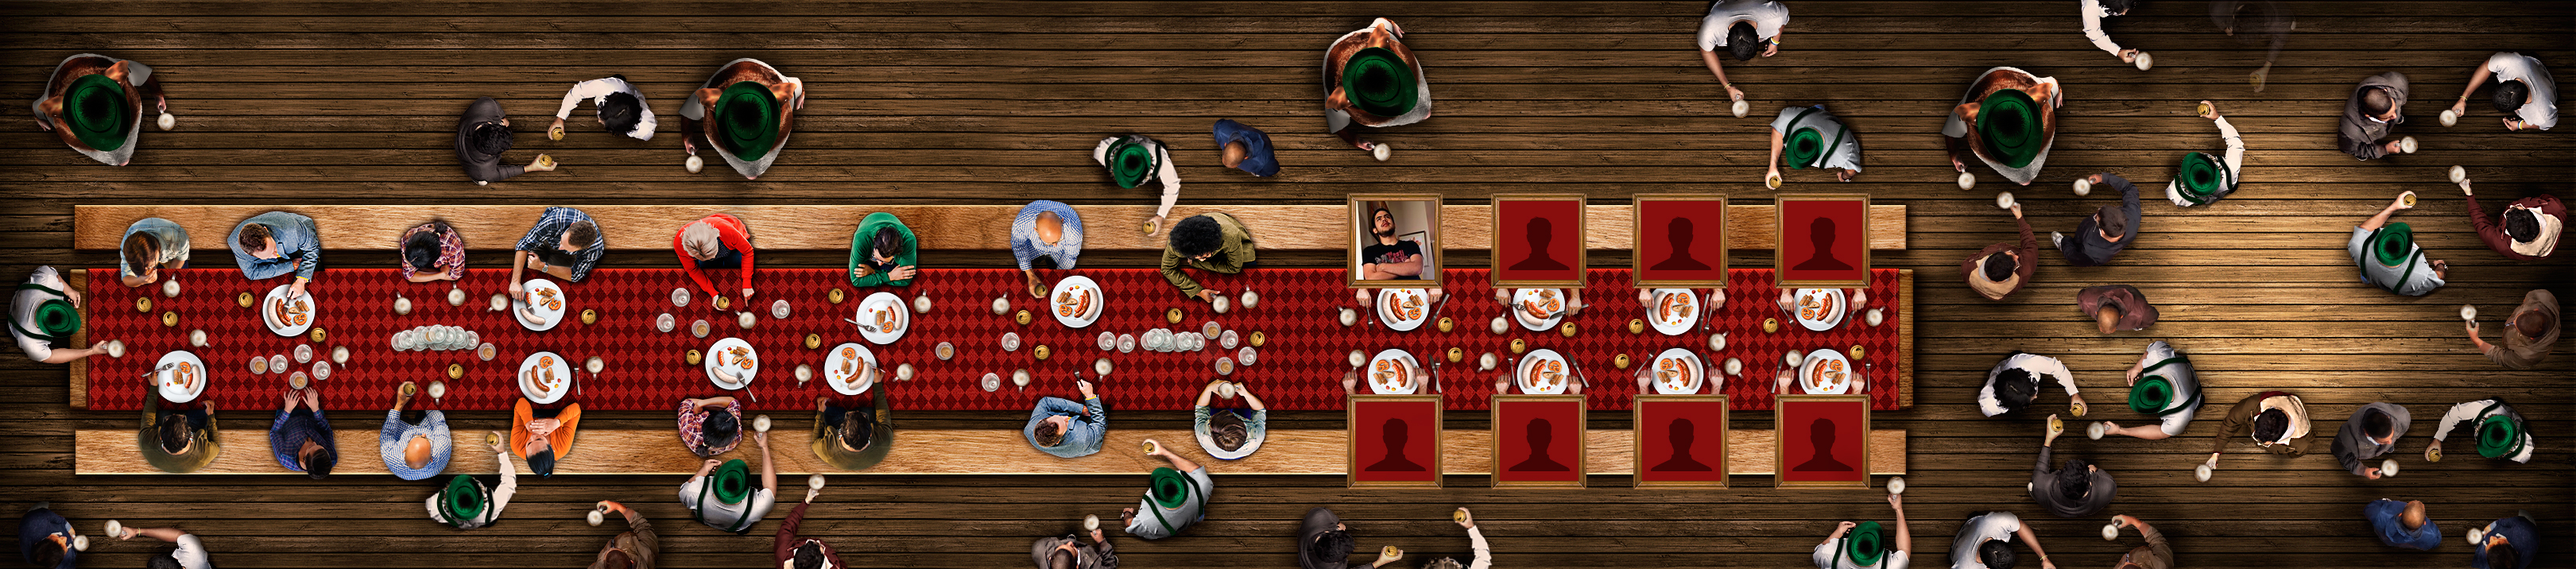
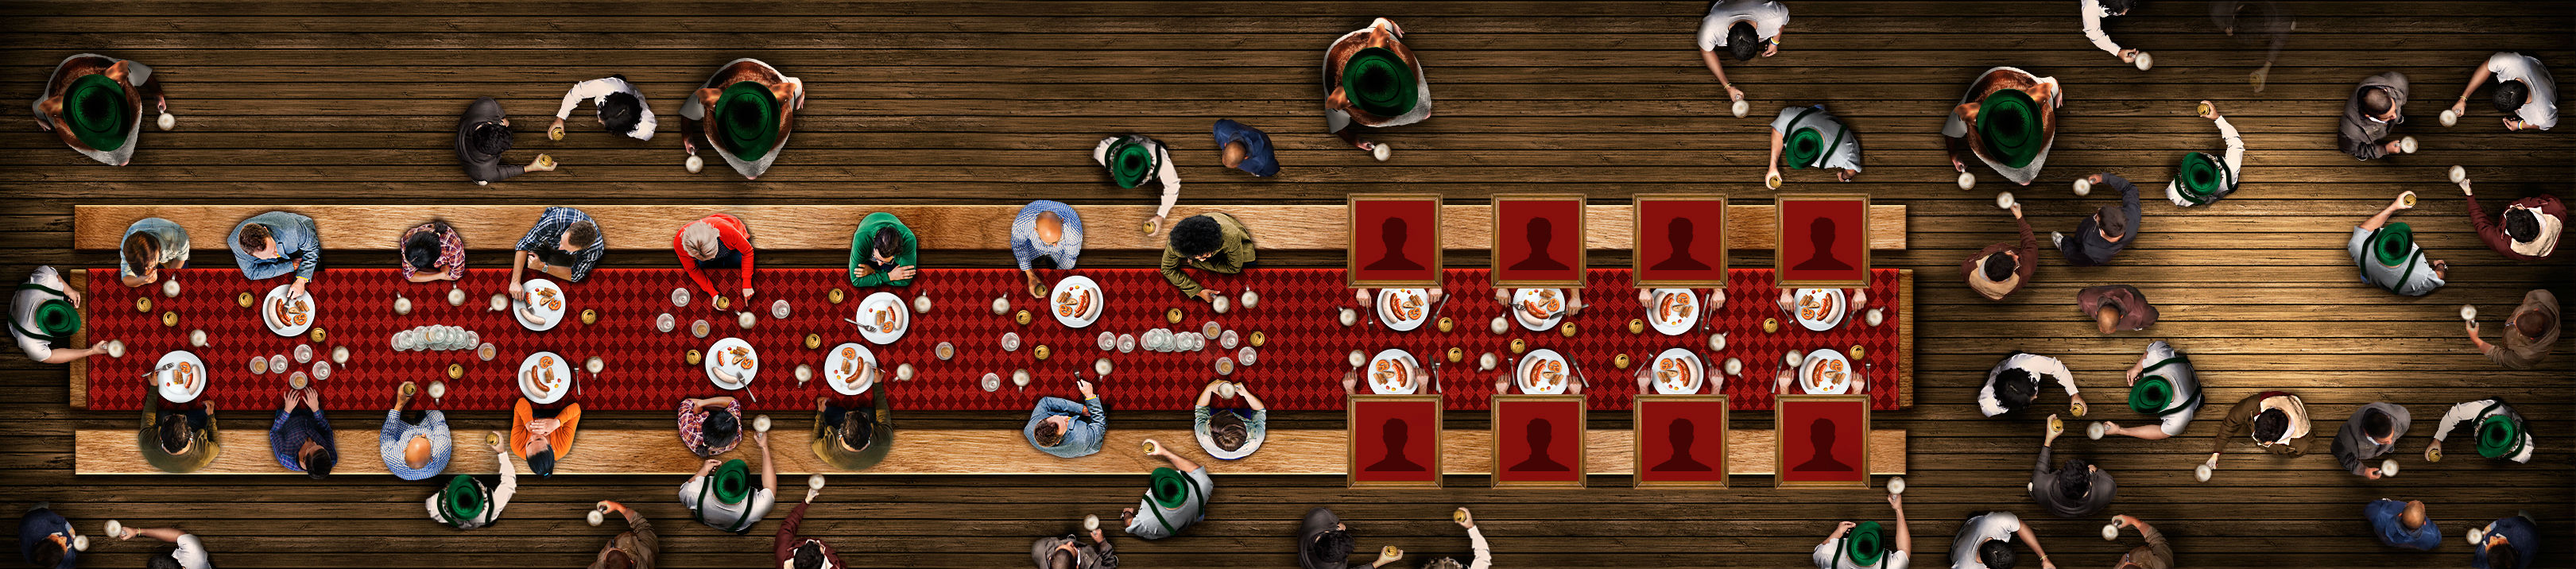
optimizando la imagen de fondo de mesa y css correspondiente

Changed region(s): [[0.4986, 0.338, 0.5609, 0.4916], [0.1558, 0.7374, 0.187, 0.7682]]

diff --git a/sass/custom.sass b/sass/custom.sass
@@ -12,7 +12,7 @@ body
     position: relative
     width: $page_width
     > main
-        background-image: url(../img/fondo-no-fan.jpg)
+        background: url(../img/fondo-mesa.jpg) #000
         height: 709px
         margin-bottom: 3px
         overflow: hidden
@@ -44,6 +44,7 @@ body
                 input[type=text]
                     width: 184px
             &.section-no-fan
+                background-image: url(../img/fondo-no-fan.jpg)
                 article
                     background-image: url(../img/contenedor-no-fan.png)
                     background-repeat: no-repeat
